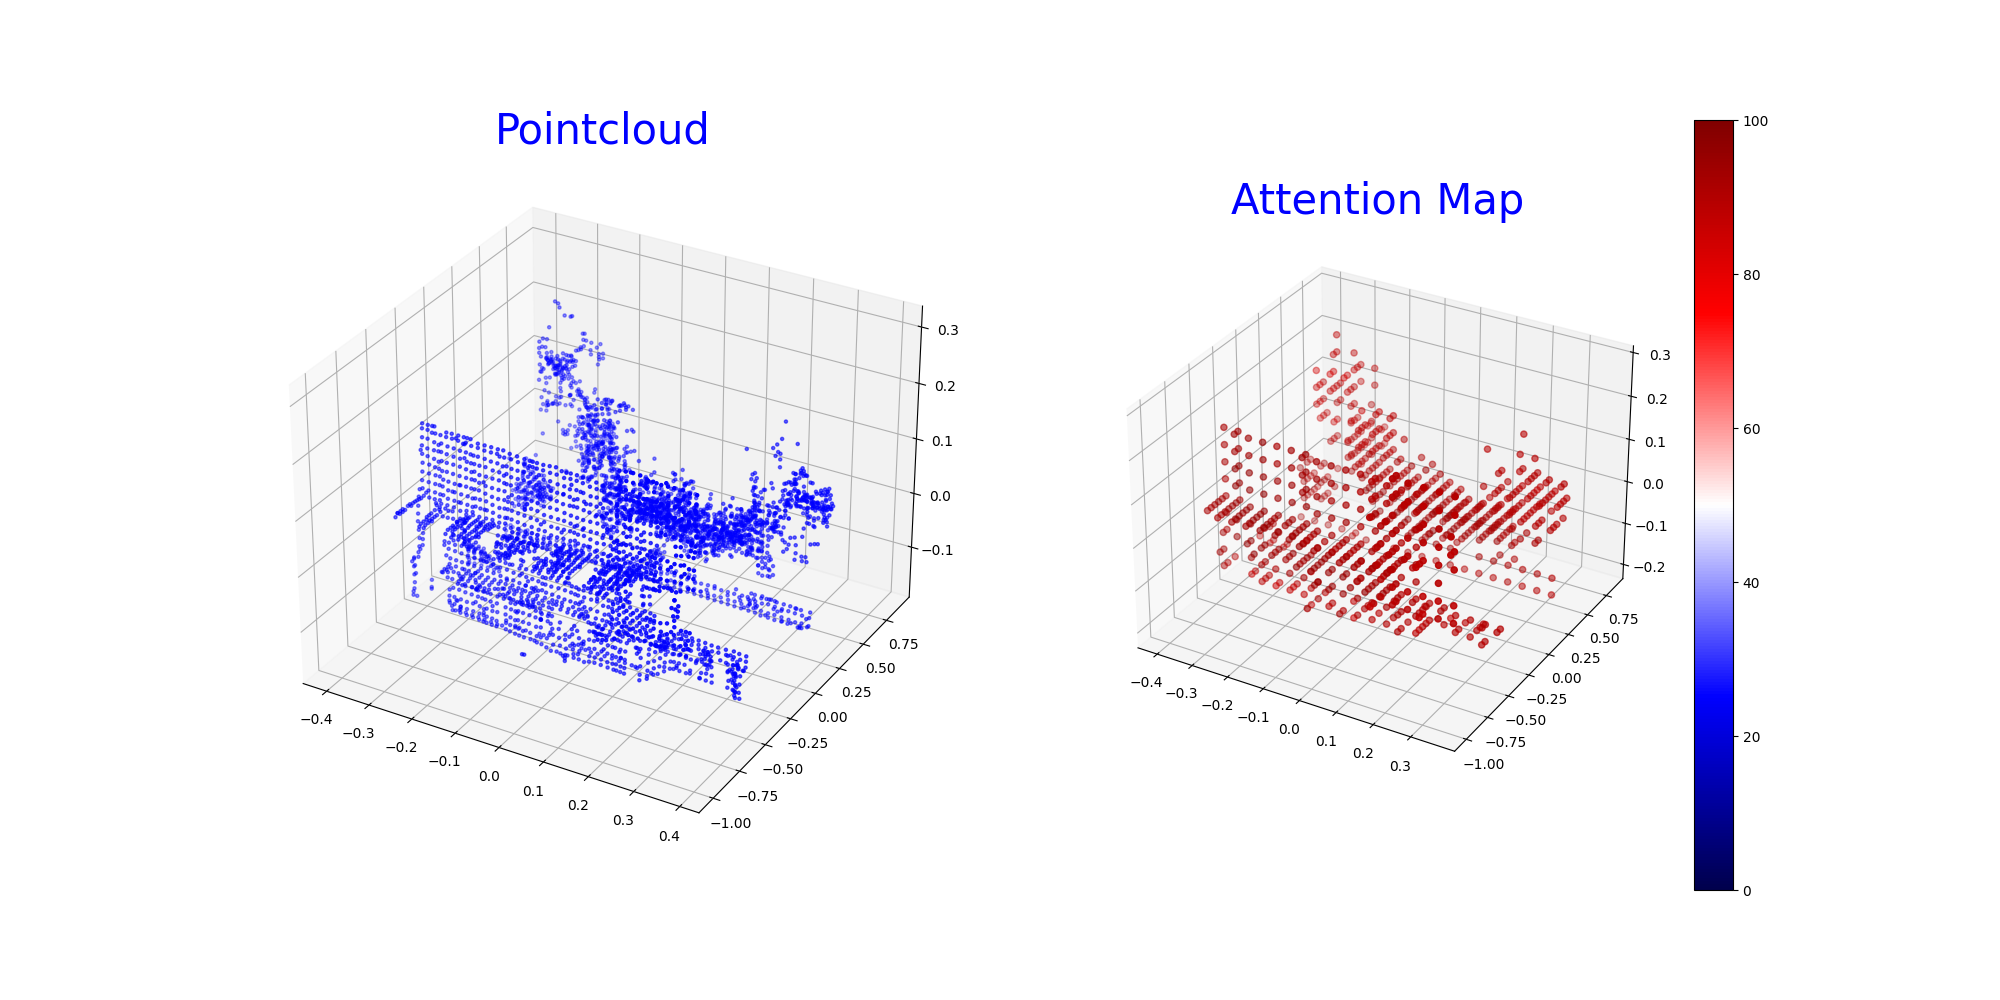
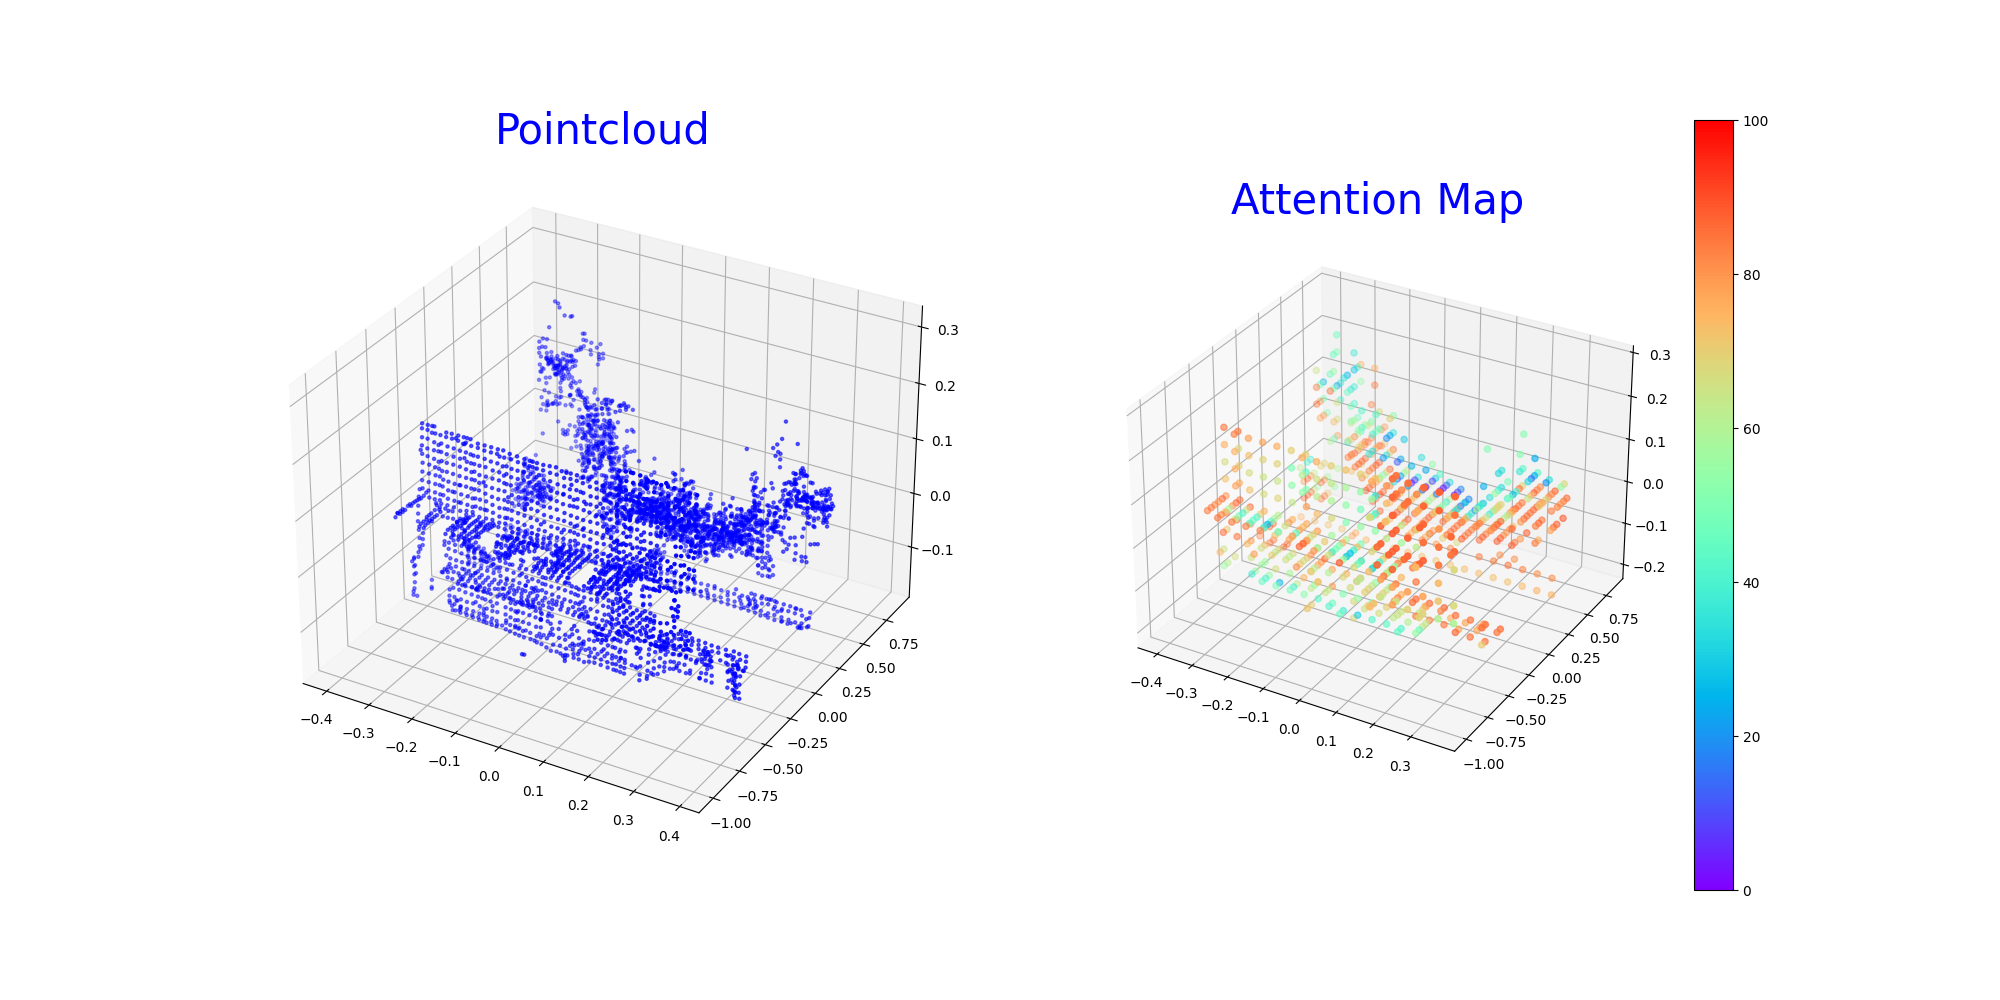
训练过程保存最优模型

Changed region(s): [[0.589, 0.341, 0.806, 0.651], [0.837, 0.124, 0.868, 0.899]]

diff --git a/training/trainer.py b/training/trainer.py
@@ -117,6 +117,9 @@ def do_train(dataloaders, params: MinkLocParams, debug=False, visualize=False):
     # Training statistics
     stats = {'train': [], 'val': [], 'eval': []}
 
+    # 记录当前最小的Loss，用于保存权重
+    minValLoss = 10000.0
+
     for epoch in tqdm.tqdm(range(1, params.epochs + 1)):
         for phase in phases:
             if phase == 'train':
@@ -176,6 +179,14 @@ def do_train(dataloaders, params: MinkLocParams, debug=False, visualize=False):
             stats[phase].append(epoch_stats)
             print_stats(epoch_stats, phase)
 
+            # 保存最优模型
+            if phase == 'val' and epoch_stats['loss'] < minValLoss:
+                minValLoss = epoch_stats['loss']
+                print("Get min val loss: {}, save a best model.".format(epoch_stats['loss']))
+                final_model_path = model_pathname + '_best.pth'
+                torch.save(model.state_dict(), final_model_path)  
+
+
         # ******* EPOCH END *******
 
         if scheduler is not None:
@@ -211,6 +222,7 @@ def do_train(dataloaders, params: MinkLocParams, debug=False, visualize=False):
                 if rnz < params.batch_expansion_th:
                     dataloaders['train'].batch_sampler.expand_batch()
 
+        # 保存最后的模型
         print('')
         # Save final model weights
         final_model_path = model_pathname + '_final.pth'
@@ -219,7 +231,7 @@ def do_train(dataloaders, params: MinkLocParams, debug=False, visualize=False):
     stats = {'train_stats': stats, 'params': params}
 
     # Evaluate the final model
-    # 训练结束后会评估以下网络
+    # 训练结束后会评估网络
     model.eval()
     final_eval_stats = evaluate(model, device, params)
     print('Final model:')

diff --git a/eval/evaluateWeightVisualize.py b/eval/evaluateWeightVisualize.py
@@ -130,7 +130,7 @@ def get_latent_vectors(model, set, device, params):
             weights = np.array(list_of_feats[0].cpu()*100).T[0]
             min_v = min(weights)
             max_v = max(weights)
-            color = [plt.get_cmap("seismic", 100)(int(i)) for i in weights]
+            color = [plt.get_cmap("rainbow", 100)(int(i)) for i in weights]
             rawpc = np.array(x).T
 
 
@@ -141,7 +141,7 @@ def get_latent_vectors(model, set, device, params):
             plt.title("Pointcloud", color="blue", fontsize=30)
 
             ax = plt.subplot(1,2, 2, projection = '3d')
-            plt.set_cmap(plt.get_cmap("seismic", 100))
+            plt.set_cmap(plt.get_cmap("rainbow", 100)) # jet, rainbow
             im = ax.scatter(coords[0], coords[1], coords[2], color=color, marker="o")
             fig.colorbar(im, format=matplotlib.ticker.FuncFormatter(lambda x, pos:int(x*(100))))
 

diff --git a/models/minkloc.py b/models/minkloc.py
@@ -36,7 +36,7 @@ class MinkLoc(torch.nn.Module):
         else:
             raise NotImplementedError('Model not implemented: {}'.format(model))
 
-        self.attention = PointConvAttention(in_channel=feature_size, out_channel=1)
+        self.attention = PointWiseAttention(in_channel=feature_size, out_channel=1)
 
     def forward(self, batch):
         # Coords must be on CPU, features can be on GPU - see MinkowskiEngine documentation
